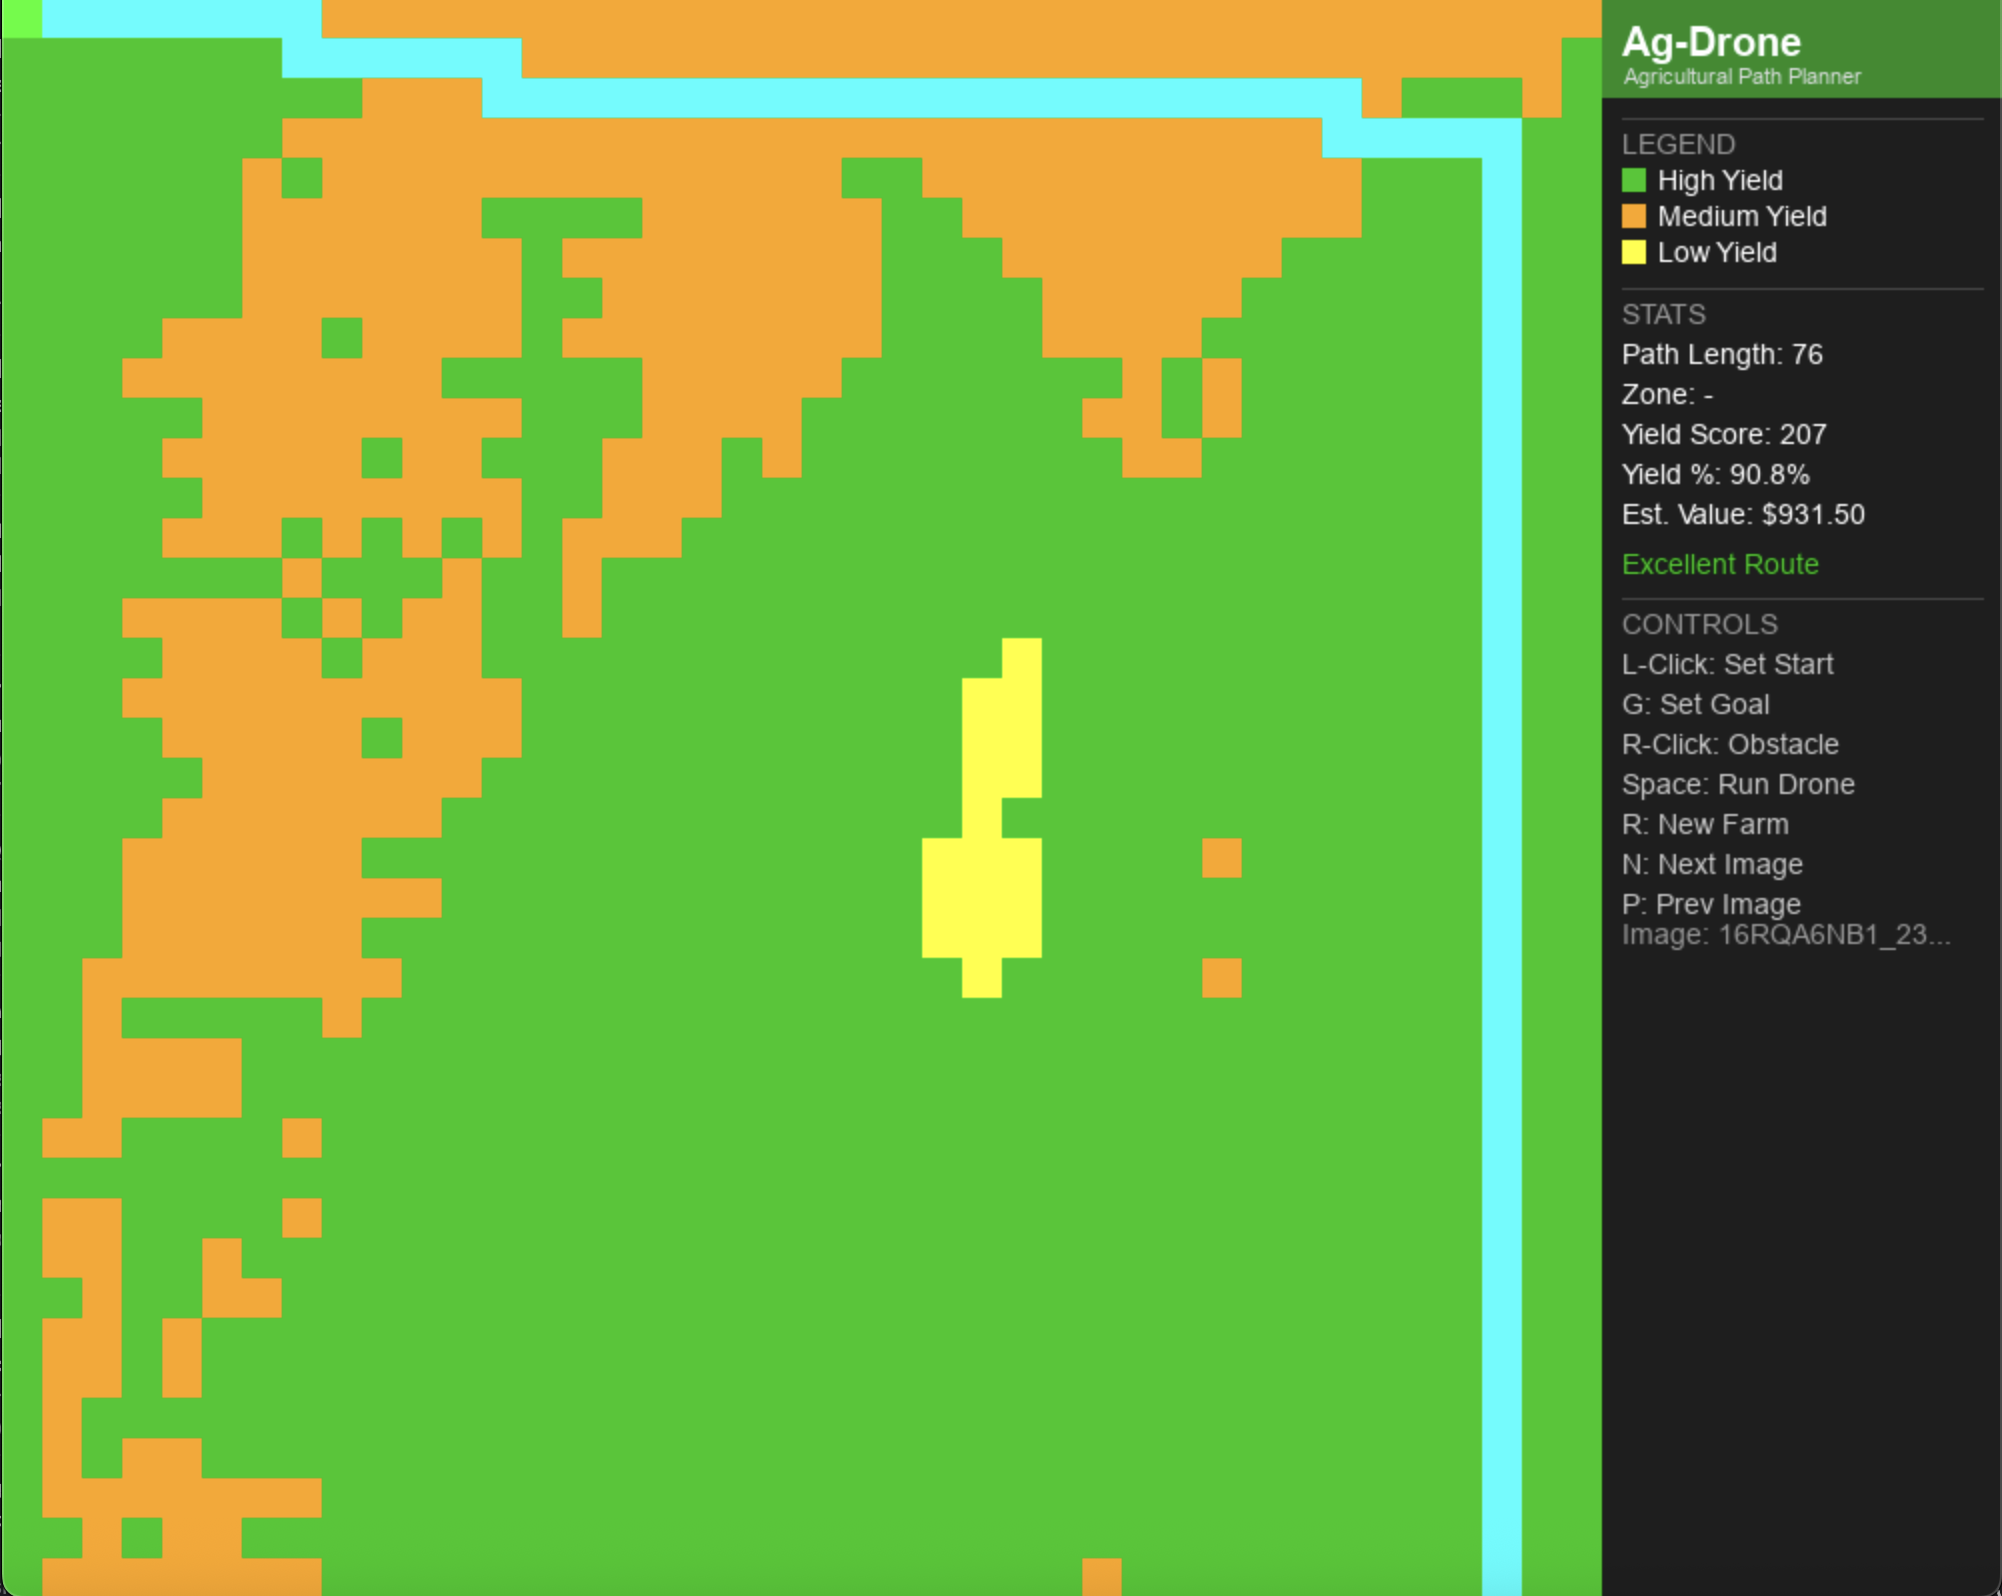
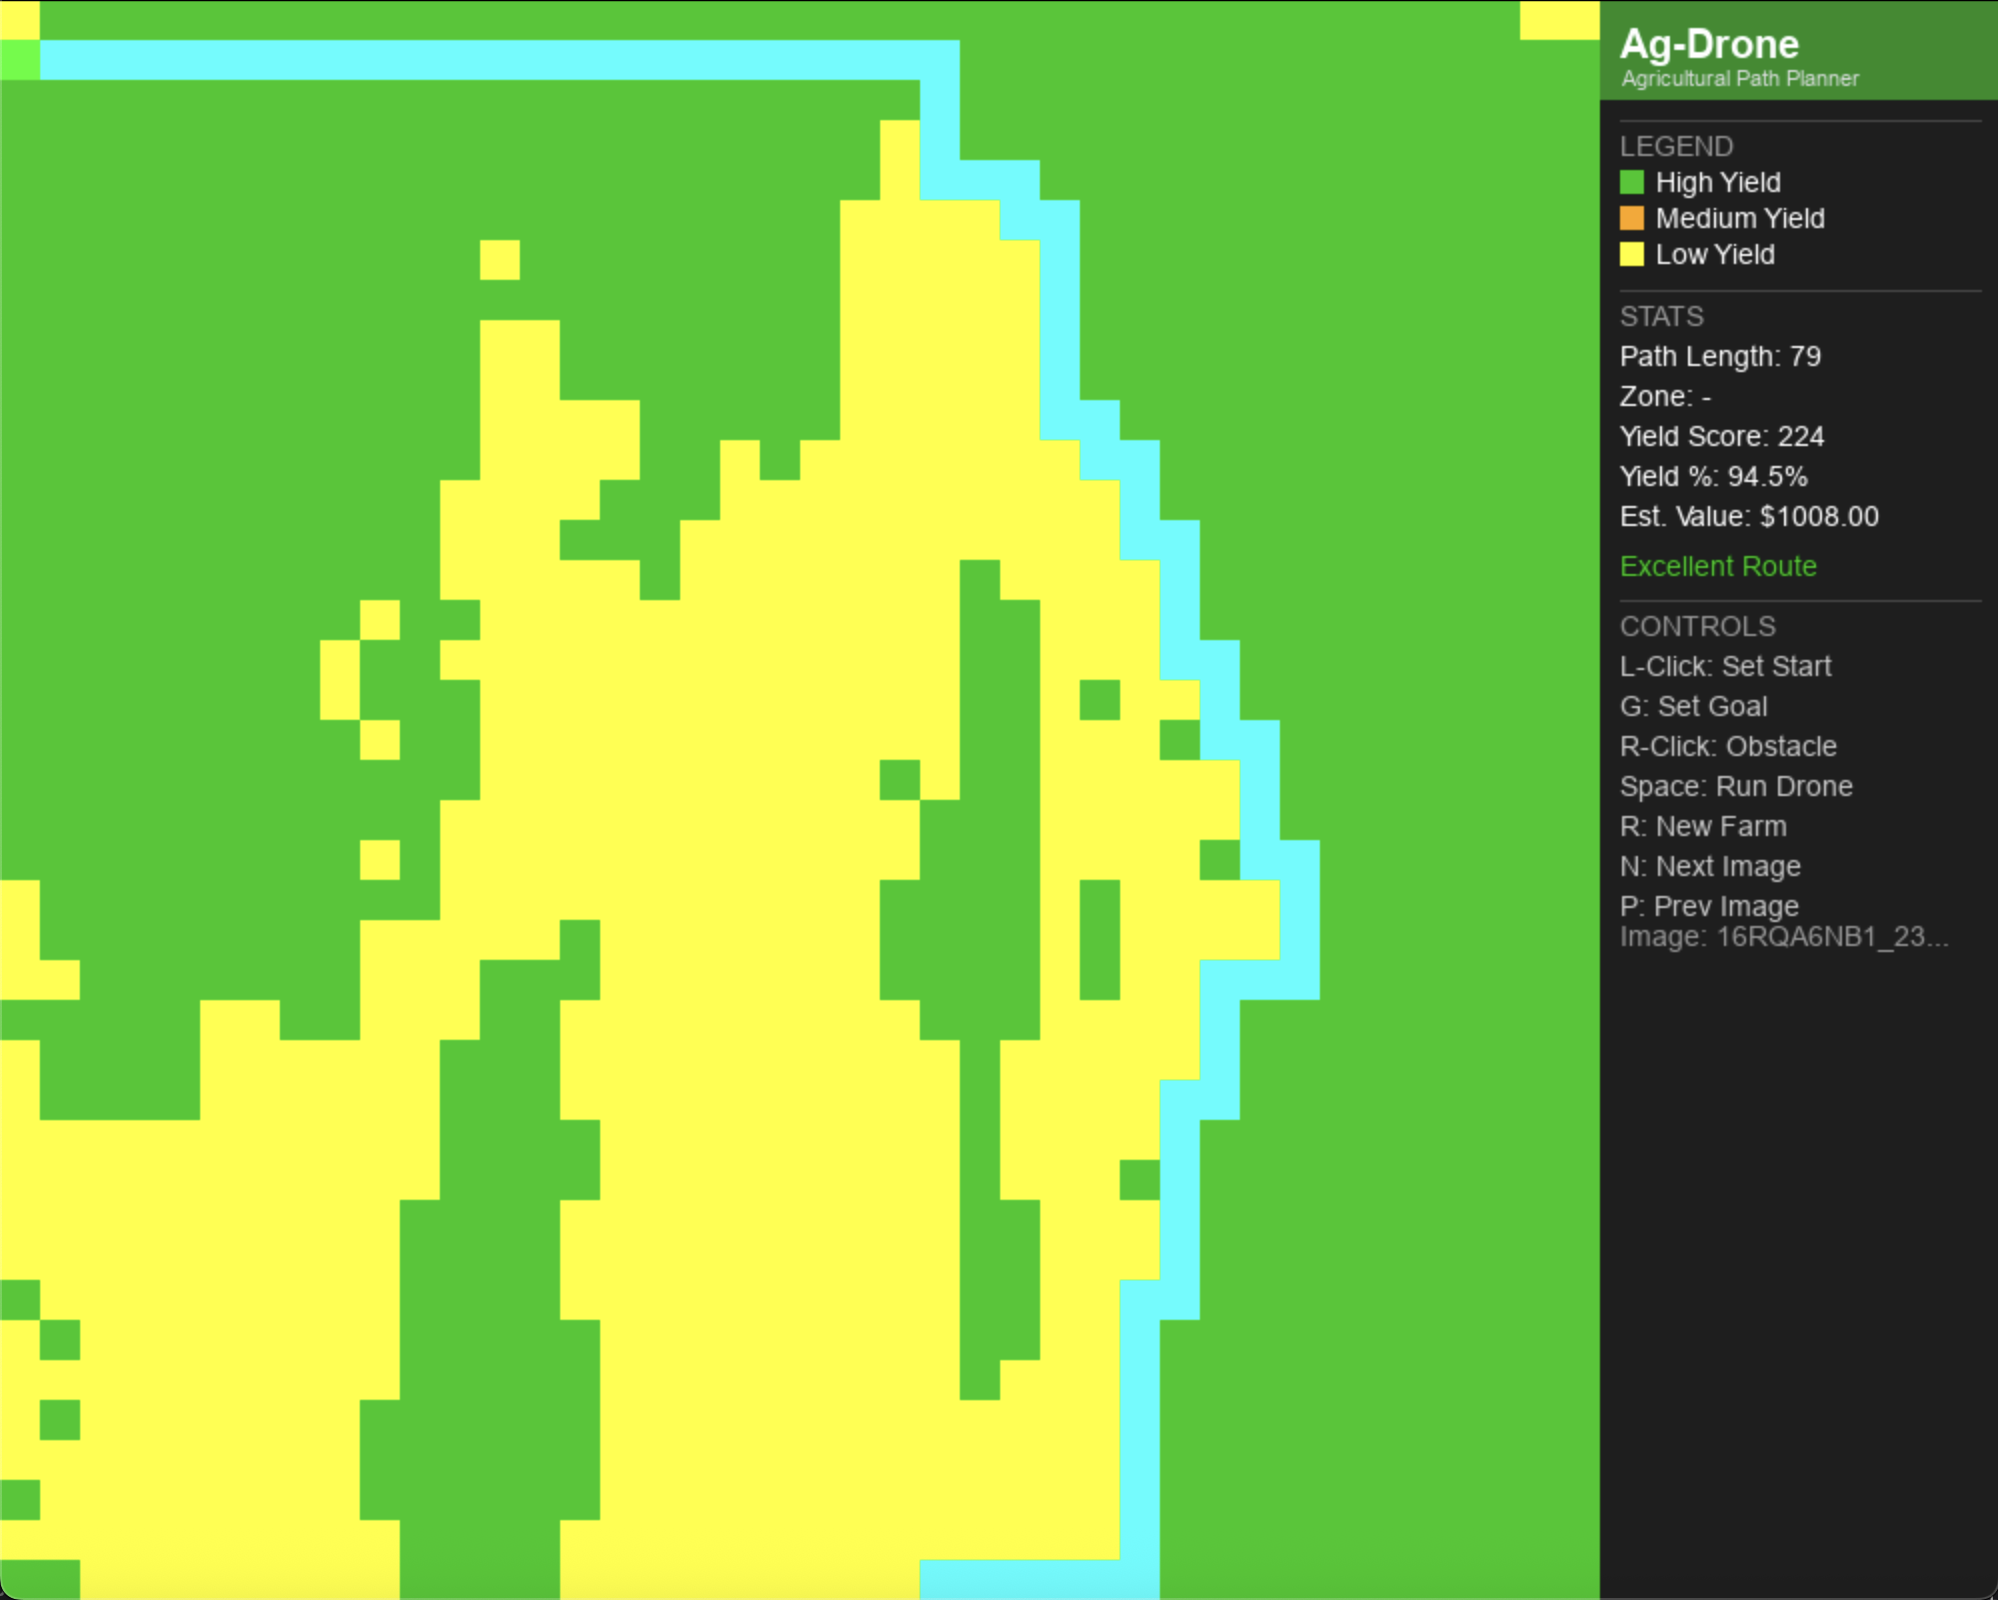
complete ML pipeline with UNet training, validation loop, loss curve and full dataset

diff --git a/readMe.md b/readMe.md
@@ -1,12 +1,12 @@
 # 🚁 Ag-Drone Agricultural Path Planner
 
-> A full ML perception pipeline meets precision agriculture, training a neural network on real CVPR research data to generate optimal drone harvest routes using A* pathfinding.
+> A full ML perception pipeline meets precision agriculture, training a UNet segmentation model on real CVPR research data to generate optimal drone harvest routes using A* pathfinding.
 
-![Demo Screenshot](ScreenShot.png)
+![Demo](ScreenShot.png)
 
-| Real Aerial Field Image | ML Model Output |
-|------------------------|-----------------|
-| ![Field](Feild.jpg) | ![ML Output](ML_Train.png) |
+| ML Model Prediction | A* Drone Route |
+|--------------------|----------------|
+| ![ML Output](ML_Train.png) | ![Loss Curve](loss_curve.png) |
 
 ## Overview
 
@@ -26,17 +26,17 @@ The simulation runs in three layers.
 
 **1. ML Perception Pipeline (perception_model.py)**
 
-A UNet segmentation model trained on the Agriculture Vision CVPR dataset predicts yield zones directly from any aerial RGB image. No mask files required — the model has learned what healthy and stressed crops look like from 2000 real labeled farm images.
+A UNet segmentation model trained on the Agriculture Vision CVPR dataset predicts yield zones directly from any aerial RGB image. No mask files required — the model learned what healthy and stressed crops look like from 8345 real labeled farm images.
 
 The model outputs a pixel level classification for every cell:
 
 🟢 High Yield — healthy crops with no detected anomaly
 
-🟠 Medium Yield — double plant or mild stress detected
+🟠 Medium Yield — double plant detected
 
-🟡 Low Yield — weed cluster, nutrient deficiency, planter skip, or storm damage detected
+🟡 Low Yield — weed cluster, nutrient deficiency, planter skip, storm damage, or waterway detected
 
-For reference, the dataset pipeline (perception_dataset.py) is also included for reading directly from Agriculture Vision mask files, and the RGB excess green index pipeline (perception.py) works on any unlabeled aerial image without the dataset.
+Two additional pipelines are included for reference. `perception_dataset.py` reads directly from Agriculture Vision mask files. `perception.py` uses RGB excess green index analysis for unlabeled imagery without the dataset.
 
 **2. Pathfinding (astar.py)**
 
@@ -84,7 +84,13 @@ tar -xzf data2017_miniscale.tar.gz
 python train.py
 ```
 
-This trains a UNet with ResNet34 encoder on 2000 labeled aerial farm images using weighted CrossEntropy loss to handle class imbalance between healthy and anomaly zones. Training takes roughly 3 to 8 hours on Apple M4 GPU. The model is saved as `crop_model.pt`.
+Training uses a UNet with ResNet34 encoder, ImageNet normalization, weighted CrossEntropy loss to handle class imbalance, and an 80/20 train/val split across 8345 labeled images. Training takes roughly 8 to 15 hours on Apple M4 GPU. The model is saved as `crop_model.pt`.
+
+## Model Performance
+
+Training on the full 8345 image Agriculture Vision dataset over 10 epochs showed consistent improvement in average train loss from 0.695 to 0.625. Validation loss stabilized around 0.75 indicating the model generalizes to unseen aerial farm imagery without significant overfitting. The gap between train and val loss indicates mild overfitting that would be reduced with augmentation or additional training data.
+
+![Loss Curve](loss_curve.png)
 
 ## Features
 
@@ -102,14 +108,14 @@ This trains a UNet with ResNet34 encoder on 2000 labeled aerial farm images usin
 
 🚧 **Obstacle placement** simulate trees, buildings, or no fly zones
 
-🔄 **Image cycling** press N and P to cycle through dataset images live
+🔄 **Image cycling** press N and P to cycle through all 8345 dataset images live
 
 ## How To Run
 
 **Requirements:**
 
 ```bash
-pip install pygame opencv-python numpy torch segmentation-models-pytorch
+pip install pygame opencv-python numpy torch segmentation-models-pytorch matplotlib
 ```
 
 **Train the model first** using the instructions above, then:
@@ -143,7 +149,7 @@ ag-drone/
     farm.py                  Procedural farm generation for testing
     drone.py                 Drone class, animation, scoring, and path tracking
     inference.py             Quick model inference test script
-    drone.png                Drone sprite
+    Drone.png                Drone sprite
     Feild.jpg                Sample aerial crop image
     README.md
 ```
@@ -164,17 +170,17 @@ ag-drone/
 
 ## Future Work
 
-ROS integration to publish computed paths as ROS topics for deployment on real autonomous drone hardware
+Albumentations data augmentation to reduce overfitting and improve generalization
+
+ROS integration to publish computed paths as ROS topics for deployment on real autonomous drone hardware once ROS foundations are established
 
 3D terrain mapping to visualize elevation and crop height data
 
 Multi drone coordination for covering different zones simultaneously
 
-Fine tune on full Agriculture Vision dataset with all 8345 images for improved model accuracy
-
 ## Built With
 
-Python, Pygame, OpenCV, NumPy, PyTorch, segmentation-models-pytorch, and the A* Search Algorithm
+Python, Pygame, OpenCV, NumPy, PyTorch, segmentation-models-pytorch, Matplotlib, and the A* Search Algorithm
 
 Dataset: [Agriculture Vision CVPR Dataset](https://www.agriculture-vision.com/)
 
